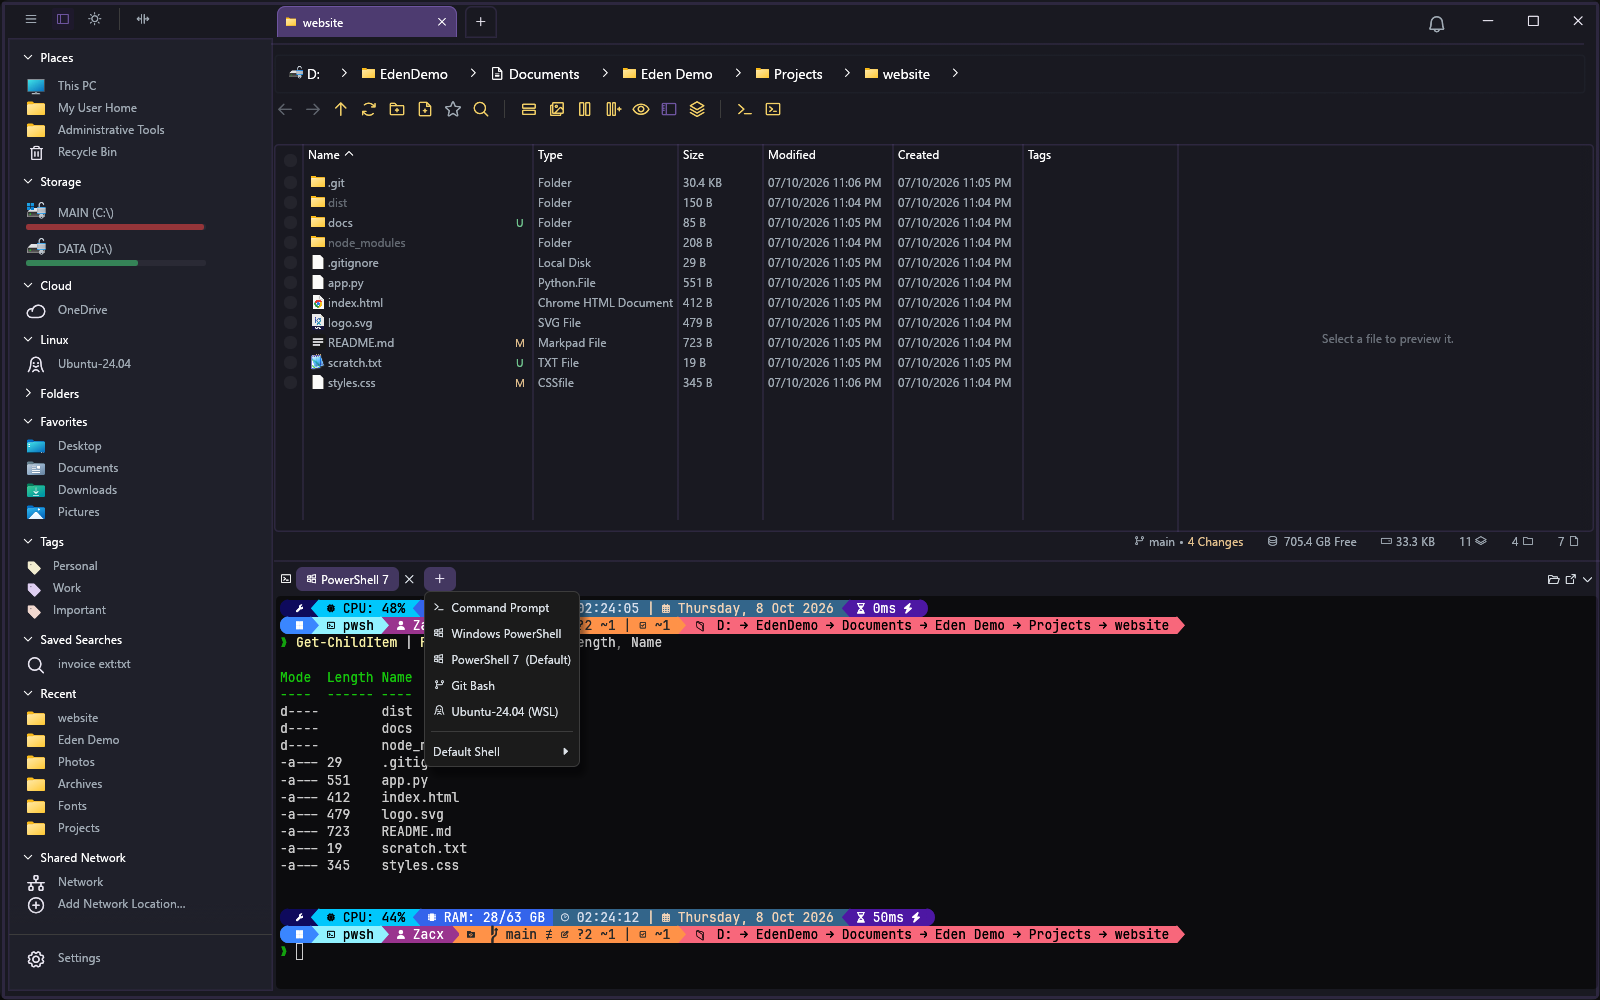
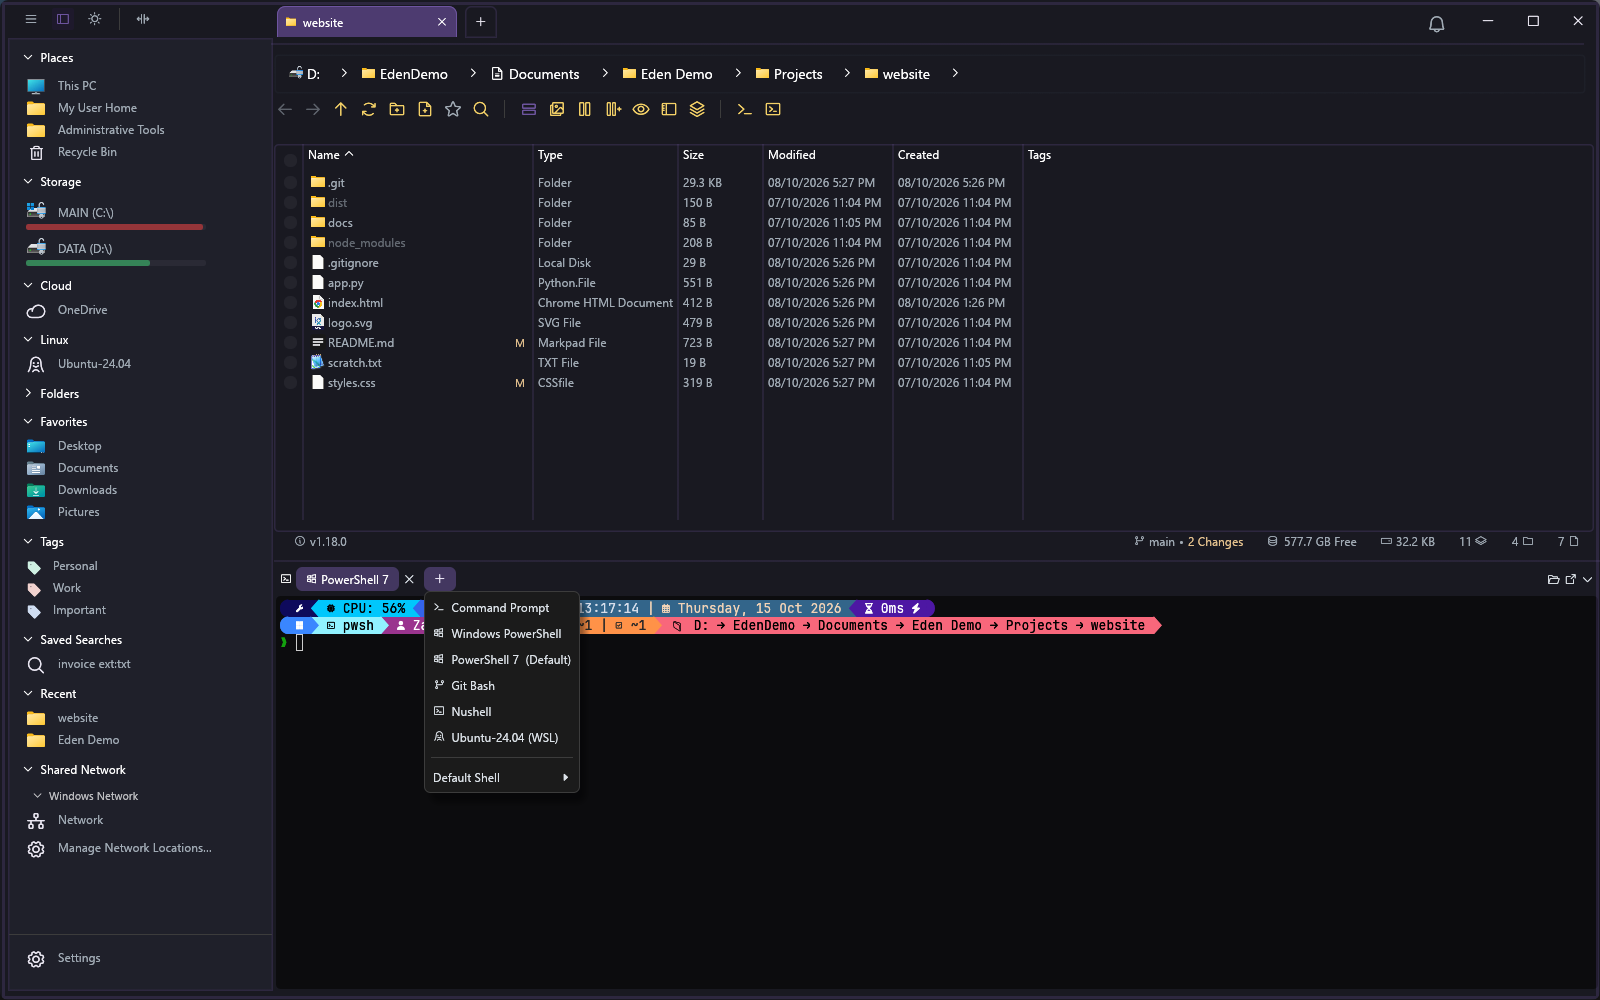
Document the terminal setting, and re-shoot the two screenshots it changed
86-terminal-shells.png (the pane's + menu) now lists Nushell, and
88-terminal-settings.png (Settings > Behavior) shows the new Terminal
Program row with its tooltip. Both re-shot from the same demo profile and at
the same size as the originals, with the current build.

diff --git a/CHECKLIST.md b/CHECKLIST.md
@@ -663,7 +663,7 @@ Rationale and detail for each item is in `PRD.md` §9.
 
 | State | Item |
 |---|---|
-| Completed | **Direct user request: "Add setting for user, when click open terminal in current directly, user can set default using command prompt, powershell 7, windows powershell, nushell, gitbash, etc."** `open_default_terminal` had no choice in it: Windows Terminal if installed, else Windows PowerShell, else Command Prompt. Added `TerminalPrefs::external_shell` (a `ShellProfile::id`, `None` = that same automatic chain) - kept separate from `default_shell`, which is the shell the *pane inside the window* starts, since wanting one shell docked in the app says nothing about which should open outside it. The window is started through `ShellProfile::launch`, the same thing the pane runs, so a shell gets identical arguments and environment either way (Git Bash still gets `--login -i` and `CHERE_INVOKING`), with `CREATE_NEW_CONSOLE` for a window of its own - this app is a GUI process with no console, so a console program started from it would otherwise have nowhere to draw. A chosen shell that is no longer installed falls back to the automatic chain rather than failing silently. The toolbar's own Terminal button used to call the launcher directly from inside the navbar drawing code, which has no settings in scope; it now routes through `toolbar_command` like every other toolbar item, which also let `draw_navigation_bar_buttons` drop a parameter it no longer needed. Settings > Behavior > **Terminal Program** is a dropdown of the installed shells, minus WSL distributions and remote shells (a distribution is a place to browse here, not a terminal program to default to). 3 new i18n keys across all six locales. **Live-verified**: the dropdown listed Automatic (Windows Terminal), Command Prompt, Windows PowerShell, PowerShell 7, Git Bash and Nushell; choosing Nushell and then clicking Open Terminal started `nu.exe` in its own window (confirmed by the running process and the console's own tab title), where Automatic had been opening Windows Terminal. |
+| Completed | **Direct user request: "Add setting for user, when click open terminal in current directly, user can set default using command prompt, powershell 7, windows powershell, nushell, gitbash, etc."** `open_default_terminal` had no choice in it: Windows Terminal if installed, else Windows PowerShell, else Command Prompt. Added `TerminalPrefs::external_shell` (a `ShellProfile::id`, `None` = that same automatic chain) - kept separate from `default_shell`, which is the shell the *pane inside the window* starts, since wanting one shell docked in the app says nothing about which should open outside it. The window is started through `ShellProfile::launch`, the same thing the pane runs, so a shell gets identical arguments and environment either way (Git Bash still gets `--login -i` and `CHERE_INVOKING`), with `CREATE_NEW_CONSOLE` for a window of its own - this app is a GUI process with no console, so a console program started from it would otherwise have nowhere to draw. A chosen shell that is no longer installed falls back to the automatic chain rather than failing silently. The toolbar's own Terminal button used to call the launcher directly from inside the navbar drawing code, which has no settings in scope; it now routes through `toolbar_command` like every other toolbar item, which also let `draw_navigation_bar_buttons` drop a parameter it no longer needed. Settings > Behavior > **Terminal Program** is a dropdown of the installed shells, minus WSL distributions and remote shells (a distribution is a place to browse here, not a terminal program to default to). 3 new i18n keys across all six locales. **Live-verified**: the dropdown listed Automatic (Windows Terminal), Command Prompt, Windows PowerShell, PowerShell 7, Git Bash and Nushell; choosing Nushell and then clicking Open Terminal started `nu.exe` in its own window (confirmed by the running process and the console's own tab title), where Automatic had been opening Windows Terminal. Two screenshots re-shot from the demo profile with the current build: `86-terminal-shells.png` (the pane's + menu, now listing Nushell) and `88-terminal-settings.png` (the Behavior page, now showing Terminal Program with its tooltip). The toolkit for those lives in `D:\EdenRun	ools` from an earlier session and needed two corrections to run again - its `common.ps1` dot-sources paths from that session's own scratchpad, and its `$PAGE` table of settings-category y-positions predates the Sidebar and Toolbar categories, so Behavior is at y=227 now, not 197. |
 
 ### A folder clears the preview pane
 

diff --git a/Screenshots/README.md b/Screenshots/README.md
@@ -458,7 +458,7 @@ Clicking Ubuntu in the sidebar's Linux section opens the distribution's files wi
 
 ![Terminal pane](85-terminal-pane.png)
 
-### The terminal pane's + menu - every installed shell (Command Prompt, Windows PowerShell, PowerShell 7, Git Bash, each WSL distribution) and Default Shell
+### The terminal pane's + menu - every installed shell (Command Prompt, Windows PowerShell, PowerShell 7, Git Bash, Nushell, each WSL distribution) and Default Shell
 
 ![Terminal shells](86-terminal-shells.png)
 
@@ -466,7 +466,7 @@ Clicking Ubuntu in the sidebar's Linux section opens the distribution's files wi
 
 ![Terminal with Oh My Posh](87-terminal-oh-my-posh.png)
 
-### Settings - Behavior - Terminal Font Size and Terminal Font (Automatic picks an installed Nerd Font for prompt themes like Oh My Posh)
+### Settings - Behavior - Terminal Font Size, Terminal Font (Automatic picks an installed Nerd Font for prompt themes like Oh My Posh) and Terminal Program (which shell Open Terminal opens in its own window)
 
 ![Terminal settings](88-terminal-settings.png)
 
